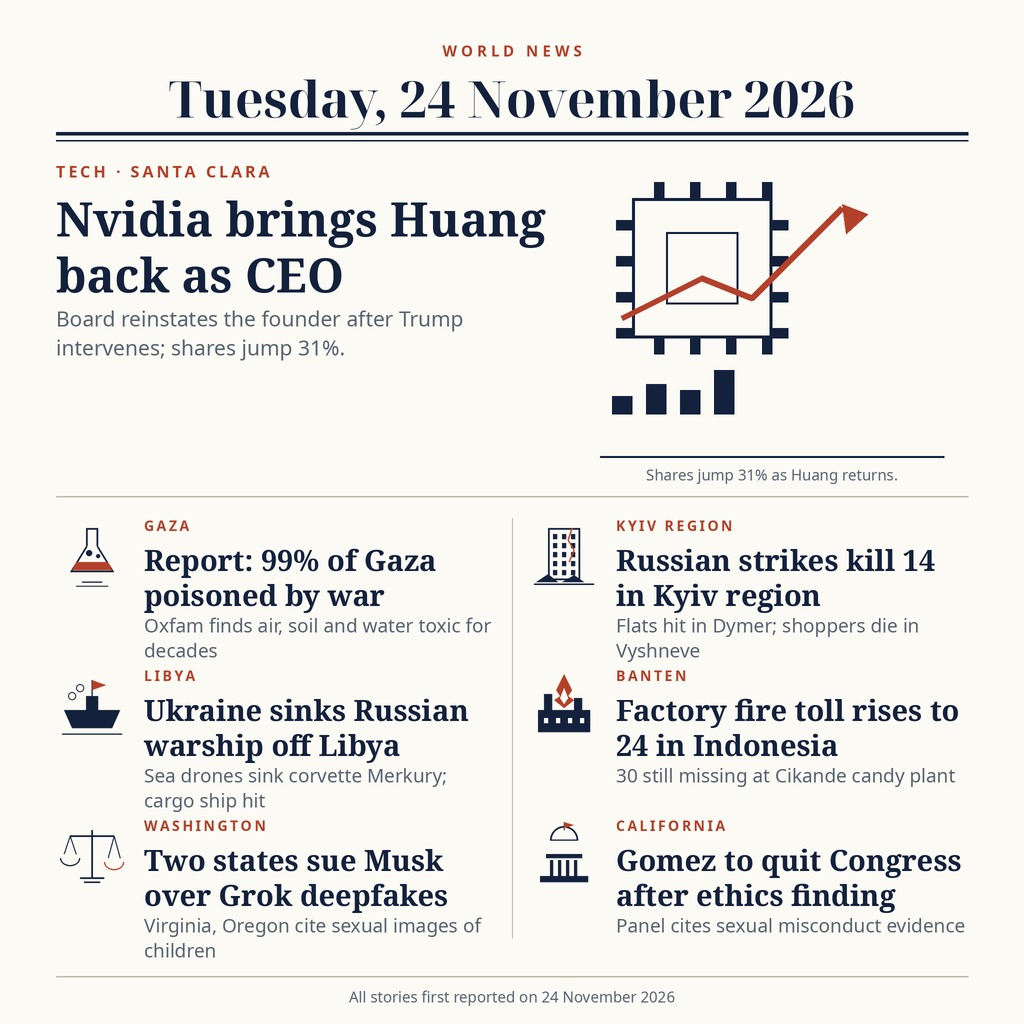
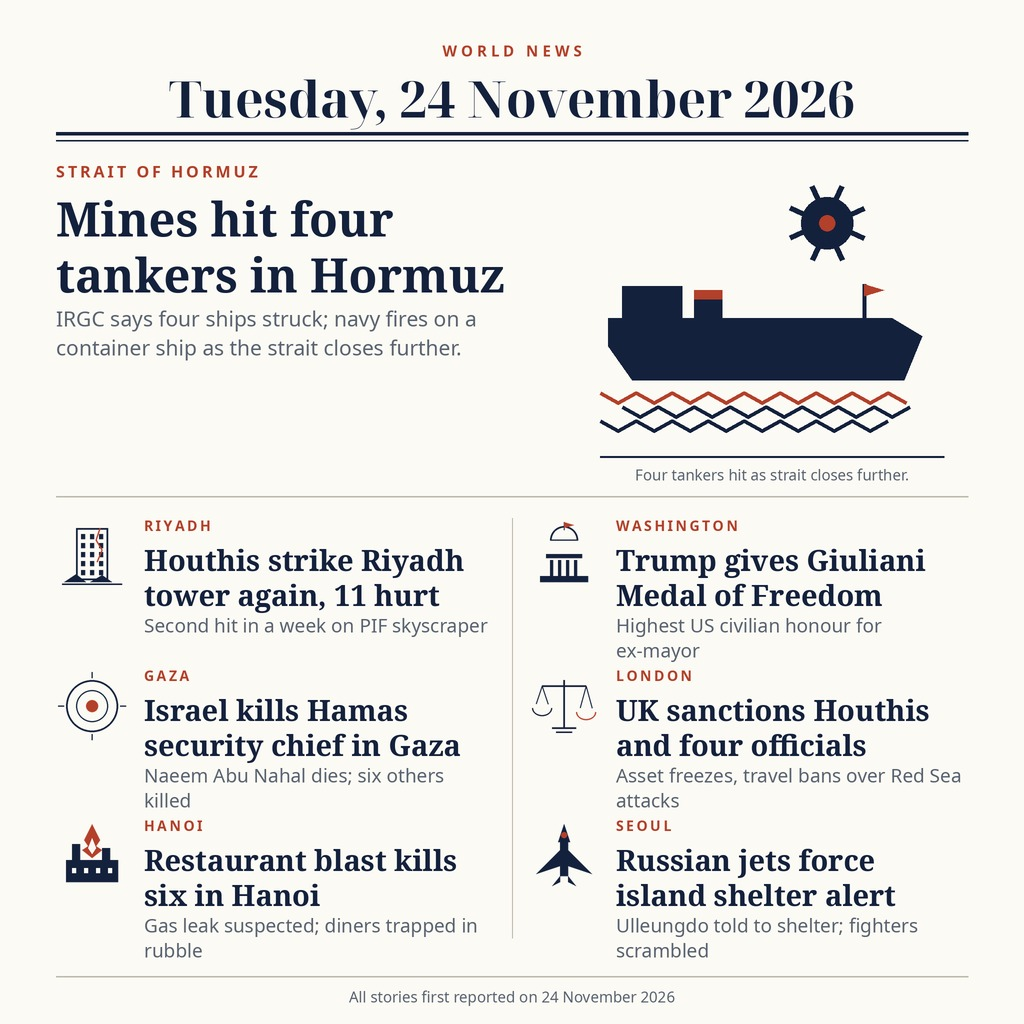
news-image-20261124: redo with full-day 24 Nov news (Hormuz tankers lead)

diff --git a/README.md b/README.md
@@ -4,7 +4,9 @@
 [![rank](https://make.fun/badge/news-image-20261124/yushiyoon02-sys/news-image-20261124/rank.svg)](https://make.fun/bounty/news-image-20261124/leaderboard?utm_source=github&utm_medium=readme&utm_campaign=news-image-20261124)
 [![reward](https://make.fun/badge/news-image-20261124/yushiyoon02-sys/news-image-20261124/reward.svg)](https://make.fun/bounty/news-image-20261124?utm_source=github&utm_medium=readme&utm_campaign=news-image-20261124)
 
-One newspaper front page summing up the world news of Tuesday 24 November 2026: Nvidia brings Jensen Huang back as CEO, an Oxfam report finds 99% of Gaza poisoned by war, Ukraine sinks a Russian warship off Libya, two US states sue Musk over Grok deepfakes, Russian strikes kill 14 in Kyiv region, the Indonesia factory fire toll rises to 24, and Rep. Gomez quits Congress after an ethics finding.
+One newspaper front page summing up the world news of Tuesday 24 November 2026: mines hit four tankers in the Strait of Hormuz, Houthis strike Riyadh's PIF tower a second time in a week, Israel kills Hamas security chief Naeem Abu Nahal in Gaza, a restaurant blast kills six in Hanoi, Trump gives Rudy Giuliani the Medal of Freedom, the UK sanctions the Houthis and four officials, and Russian jets force a shelter alert on Ulleungdo.
+
+Redo of the morning edition: the morning version carried stories first reported on 23 November (Oxfam Gaza report, the Merkury sinking, the Grok lawsuits, the Kyiv-region strikes, the Cikande factory fire). Every story in this edition was first reported on 24 November 2026, cross-checked against two or more sources.
 
 ## Run it
 
